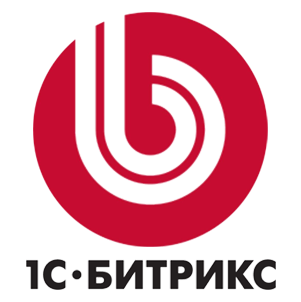
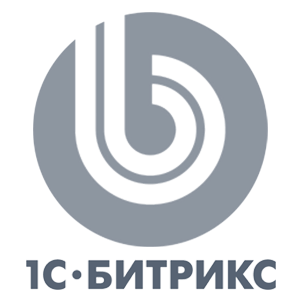
eer

diff --git a/index.html b/index.html
@@ -409,14 +409,12 @@
            <h1>Наши партнеры</h1>
            
             <div class="row valign-wrapper">
-            <div class="tint"></div>
-            <div class="col s12 m4 l4 valign"><img class="partners-logo" src="images/partners/regru.jpg" alt=""></div>
+            <div class="col s12 m4 l4 valign"><img class="partners-logo" src="images/partners/regru.png" alt=""></div>
             <div class="col s12 m4 l4 valign"><img class="partners-logo" src="images/partners/dataline_logo.png" id="dataline" alt=""></div>
             <div class="col s12 m4 l4 valign">
             <img class="partners-logo"  src="images/partners/ms.png" alt=""></div>
             </div>
             <div class="row valign-wrapper">
-            <div class="tint"></div>
             <div class="col s12 m4 l4 valign"><img class="partners-logo" src="images/partners/psb.png" alt=""></div>
            <div class="col s12 m4 l4 valign"><img class="partners-logo"  src="images/partners/ya.png" alt=""></div> 
            <div class="col s12 m4 l4 valign"><img class="partners-logo" src="images/partners/1c-bitrix.png" alt="" id="bitrix"></div> 
@@ -623,7 +621,7 @@
    
      <script src="https://cdnjs.cloudflare.com/ajax/libs/waypoints/2.0.3/waypoints.min.js"></script>
     <script src="js/jquery.counterup.min.js"></script>
-    <script src="https://maps.googleapis.com/maps/api/js?key=AIzaSyD3EkxB9yhbDu_G3qkj8jx1pemW4AA65aQ"
+    <script src="https://maps.googleapis.com/maps/api/js?key=AIzaSyAWogc9WESGgPkLhImHB3GYrSWbaSP2sTo"
   type="text/javascript"></script>
     <script src="js/materialize.min.js"></script>
     <script src="js/serg-custom.js"></script>

diff --git a/css/serg.css b/css/serg.css
@@ -755,20 +755,12 @@ text-decoration: none!important
 
 
 .partners-logo{
-    filter: grayscale(100%) ;
     width: 14vh;
         margin-bottom: 40px;
     margin-top: 40px;
 
 }
-.tint{
-        mix-blend-mode: screen;
-    background-color: #3e4c5e;
-    width: 100vw;
-    height: 100%;
-    position: absolute;
-    z-index: 888;
-}
+
 
 .btn-order-div, .btn-calculator-div{
         position: relative;
